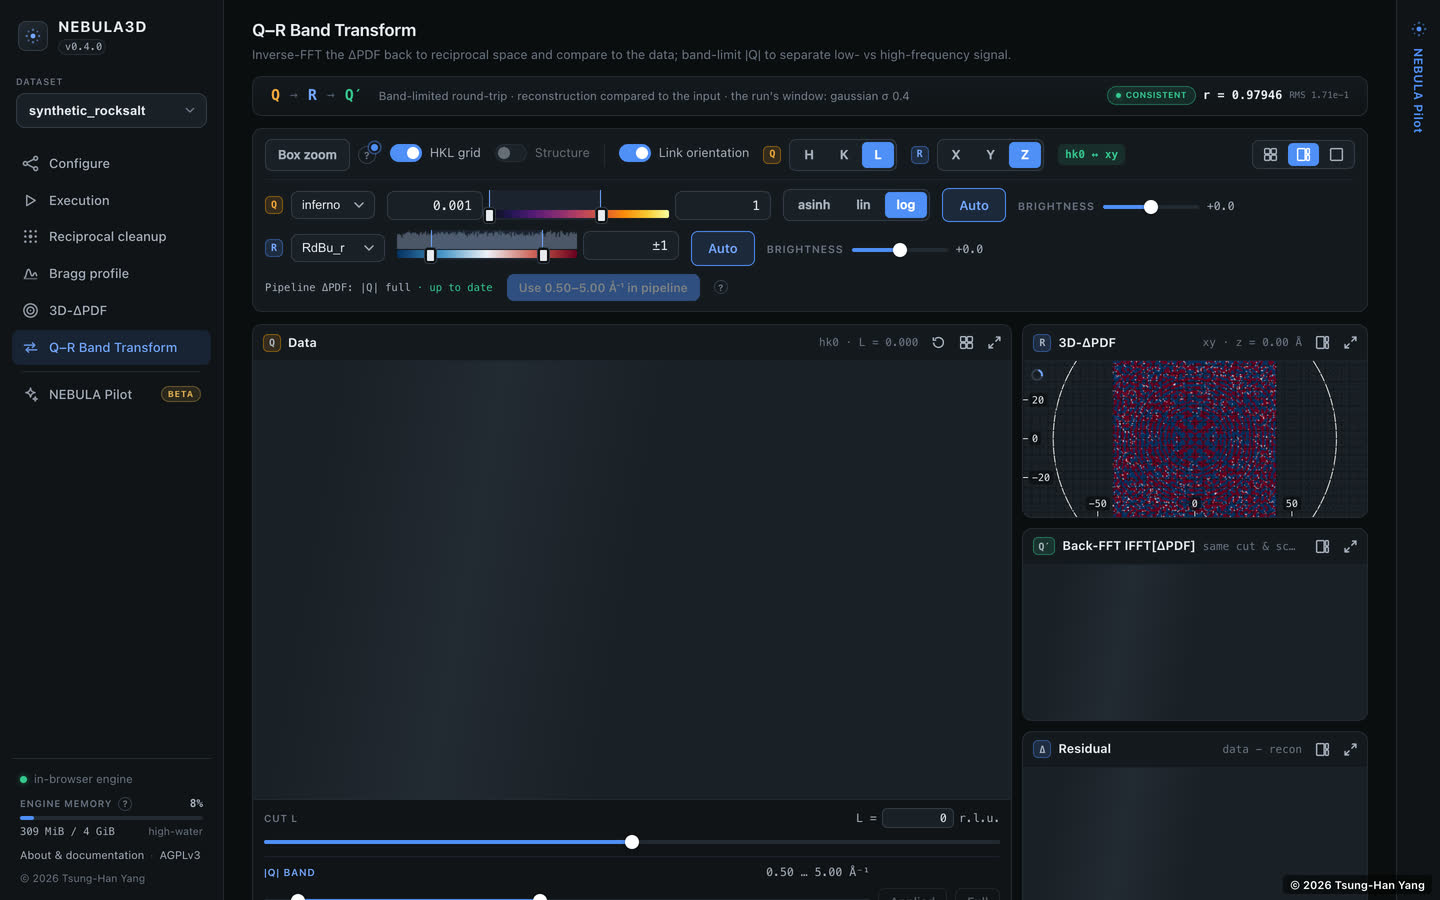
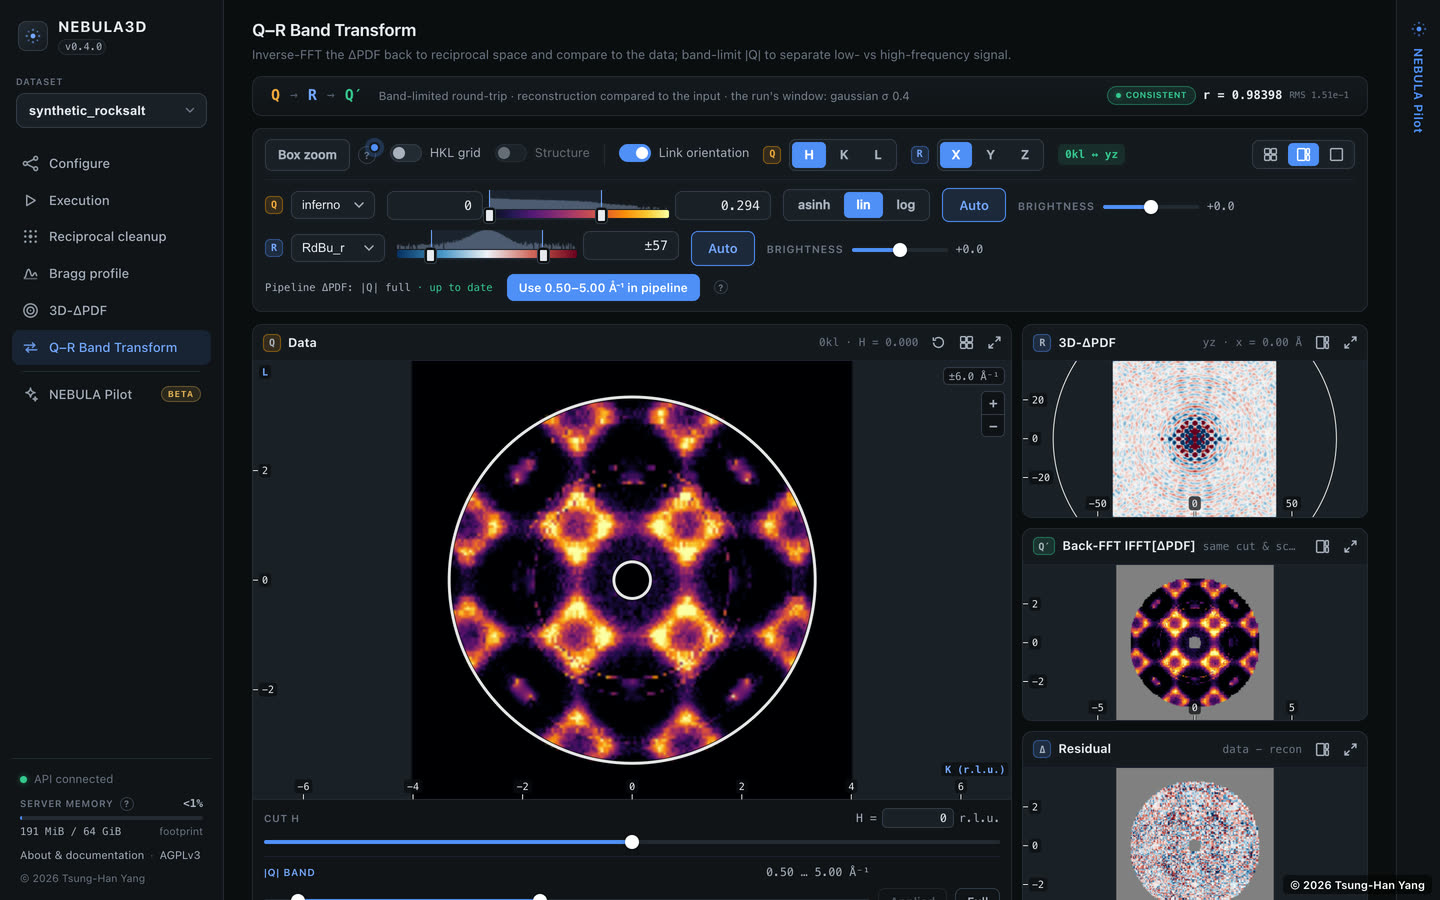
README: retake the Q–R screenshot fully rendered
The old capture was taken before the page finished: blank Data, Back-FFT
and Residual panels, a spinner on the 3D-ΔPDF and a disabled Use in
pipeline button. Retaken in the native build at 1440x900 on the synthetic
demo with a 0.50-5.00 Å⁻¹ |Q| band, once every panel was drawn, no spinner
showed and the network was idle (asserted by the capture script). The alt
text names the four views and the band.

diff --git a/README.md b/README.md
@@ -64,7 +64,7 @@ your device. More in [QUICKSTART.md](QUICKSTART.md).
 | --- | --- |
 | ![Reciprocal cleanup: raw, ring-removed, Bragg-punched, backfilled and background-corrected views of one H plane](docs/media/reciprocal-cleanup.jpg) | ![Bragg profile: fitted peak widths against abs Q, the UB turn line and the selected peak's three slices](docs/media/bragg-profile.jpg) |
 | **Reciprocal cleanup:** every stage on one plane and colour range. The *HKL grid* switch draws dashed lines at integer h, k, l. | **Bragg profile:** peak widths against \|Q\|, the UB turn the punch read, and the selected peak's slices. |
-| ![3D-ΔPDF: three orthogonal real-space sections](docs/media/delta-pdf.jpg) | ![Q–R Band Transform: the pipeline's ΔPDF row offering Use in pipeline for the applied abs Q band](docs/media/qr-use-in-pipeline.jpg) |
+| ![3D-ΔPDF: three orthogonal real-space sections](docs/media/delta-pdf.jpg) | ![Q–R Band Transform: the data, 3D-ΔPDF, back-FFT and residual views with an abs Q band of 0.50 to 5.00 per Å applied, and the pipeline's ΔPDF row offering Use in pipeline for it](docs/media/qr-use-in-pipeline.jpg) |
 | **3D-ΔPDF:** three linked real-space sections. | **Q–R Band Transform:** a \|Q\| band applied here goes to the pipeline with *Use in pipeline*, then *Run from ΔPDF*. |
 
 ## NEBULA Pilot: how it works
